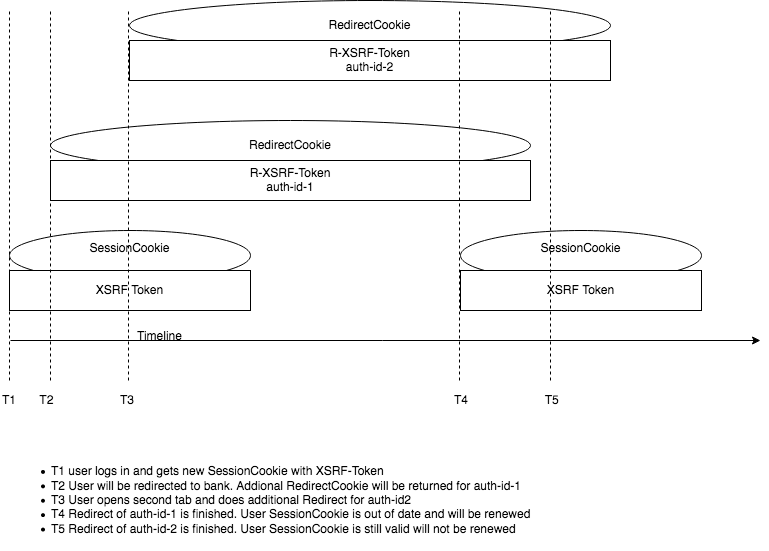
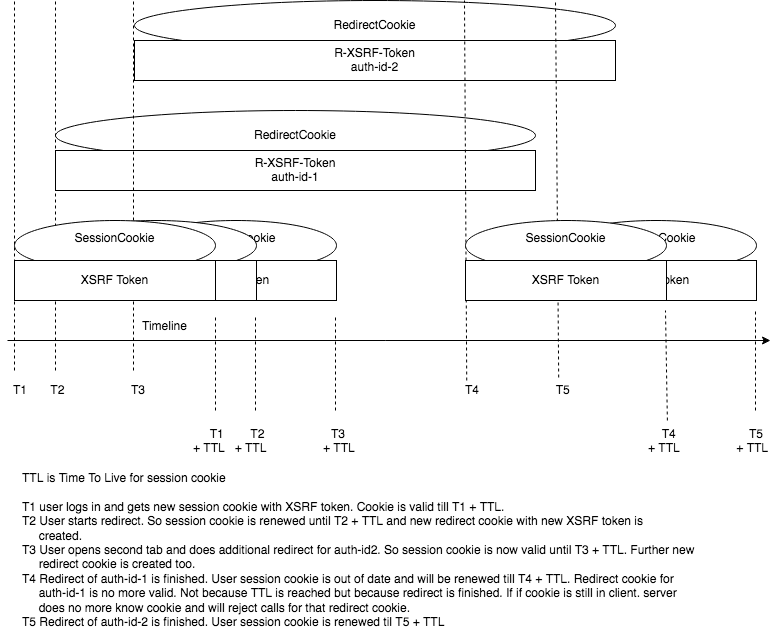
OBG 666 runs

diff --git a/fintech-examples/fintech-ui/src/app/interceptors/auth.interceptor.ts b/fintech-examples/fintech-ui/src/app/interceptors/auth.interceptor.ts
@@ -19,9 +19,6 @@ export class AuthInterceptor implements HttpInterceptor {
           const maxAge = response.headers.get(HeaderConfig.HEADER_FIELD_X_MAX_AGE);
           if (maxAge !== null) {
             this.storageService.extendSessionAge(parseInt(maxAge, 0));
-            console.log('max age', maxAge, ' set for call ', request.url);
-          } else {
-            console.log('NO max age for call ', request.url);
           }
         }
       }),
@@ -33,27 +30,22 @@ export class AuthInterceptor implements HttpInterceptor {
 
   private handleRequest(request: HttpRequest<any>, next: HttpHandler): Observable<HttpEvent<any>> {
     const xRequestID = uuid.v4();
-    let xsrfToken = null;
     let headers;
-    console.log('request is going to ', request.url);
-    if (request.headers.get(HeaderConfig.HEADER_FIELD_X_XSRF_TOKEN) !== '') {
-      xsrfToken = request.headers.get(HeaderConfig.HEADER_FIELD_X_XSRF_TOKEN);
-      console.log('xsrf token is set, so we do not change it', xsrfToken);
-    } else {
-      xsrfToken = this.storageService.getXsrfToken();
-      console.log('xsrf token taken from  storage ', xsrfToken);
-    }
     if (this.storageService.isLoggedIn()) {
+      let xsrfToken = null;
+      if (request.headers.get(HeaderConfig.HEADER_FIELD_X_XSRF_TOKEN) !== '') {
+        xsrfToken = request.headers.get(HeaderConfig.HEADER_FIELD_X_XSRF_TOKEN);
+      } else {
+        xsrfToken = this.storageService.getXsrfToken();
+      }
       headers = request.headers
         .set(HeaderConfig.HEADER_FIELD_X_REQUEST_ID, xRequestID)
         .set(HeaderConfig.HEADER_FIELD_CONTENT_TYPE, 'application/json')
         .set(HeaderConfig.HEADER_FIELD_X_XSRF_TOKEN, xsrfToken);
-      console.log('OUTGOING REQUEST ' + request.url + ' has xsrftoken ' + xsrfToken);
     } else {
       headers = request.headers
         .set(HeaderConfig.HEADER_FIELD_X_REQUEST_ID, xRequestID)
         .set(HeaderConfig.HEADER_FIELD_CONTENT_TYPE, 'application/json');
-      console.log('OUTGOING REQUEST ' + request.url + ' without xsrftoken');
     }
 
     request = request.clone({

diff --git a/fintech-examples/fintech-ui/src/app/errorsHandler/global-errors-handler.ts b/fintech-examples/fintech-ui/src/app/errorsHandler/global-errors-handler.ts
@@ -17,12 +17,12 @@ export class GlobalErrorHandler implements ErrorHandler {
 
     if (error instanceof HttpErrorResponse) {
       // Server Error
-      if (error.status === 401) {
-        authService.logout();
-        message = 'Please enter a valid username or password';
-      } else {
-        message = errorService.getServerMessage(error);
-      }
+      // if (error.status === 401) {
+      // authService.logout();
+      // does not make sense, as logout only works if user is logged in,
+      // getting 401 means session cookie not valid, so logout will fails anyway
+      // message = 'Please enter a valid username or password';
+      message = errorService.getServerMessage(error);
     } else {
       // Client Error
       message = errorService.getClientMessage(error);

diff --git a/fintech-examples/fintech-ui/src/app/services/storage.service.ts b/fintech-examples/fintech-ui/src/app/services/storage.service.ts
@@ -55,7 +55,6 @@ export class StorageService {
 
   private getMaxAgeDate(maxAge: number): Date {
     const date = new Date(new Date().getTime() + maxAge * 1000);
-    console.log('set max age ' + maxAge + ' till ' + toLocaleString(date));
     return date;
   }
 
@@ -125,7 +124,6 @@ enum Session {
   USERNAME = 'USERNAME',
   BANK_NAME = 'BANK_NAME',
   XSRF_TOKEN = 'XSRF_TOKEN',
-  COOKIE_NAME_SESSION = 'SESSION-COOKIE',
   MAX_VALID_UNTIL = 'MAX_VALID_UNTIL_TIMESTAMP',
   REDIRECT_MAP = 'REDIRECT_MAP'
 }

diff --git a/fintech-examples/fintech-impl/src/main/java/de/adorsys/opba/fintech/impl/service/SessionLogicService.java b/fintech-examples/fintech-impl/src/main/java/de/adorsys/opba/fintech/impl/service/SessionLogicService.java
@@ -75,15 +75,15 @@ public class SessionLogicService {
 
     @Transactional
     public HttpHeaders finishRedirect() {
-        SessionEntity sessionEntity = sessionRepository.findBySessionCookieValue(restRequestContext.getRedirectCookieValue()).get();
-        if (sessionEntity.getParentSession().equals(null)) {
+        SessionEntity redirectSessionEntity = sessionRepository.findBySessionCookieValue(restRequestContext.getRedirectCookieValue()).get();
+        if (redirectSessionEntity.getParentSession().equals(null)) {
             throw new RuntimeException("programming error, expected session for cookie value " + restRequestContext.getRedirectCookieValue() + " to be redirect session");
         }
-        SessionEntity parentSession = sessionRepository.findById(sessionEntity.getParentSession()).get();
-        sessionRepository.delete(sessionEntity);
+        SessionEntity sessionEntity = sessionRepository.findById(redirectSessionEntity.getParentSession()).get();
+        sessionRepository.delete(redirectSessionEntity);
         OffsetDateTime now = OffsetDateTime.now();
-        parentSession.setValidUntil(now.plusSeconds(cookieConfigProperties.getSessioncookie().getMaxAge()));
-        sessionRepository.save(parentSession);
+        sessionEntity.setValidUntil(now.plusSeconds(cookieConfigProperties.getSessioncookie().getMaxAge()));
+        sessionRepository.save(sessionEntity);
 
         log.info("renewed old session for user {}", sessionEntity.getUserEntity().getLoginUserName());
         HttpHeaders responseHeaders = new HttpHeaders();
@@ -94,7 +94,7 @@ public class SessionLogicService {
 
     @Transactional
     public boolean isSessionAuthorized() {
-        log.info("==> is authorized {} ", restRequestContext);
+        log.info("==> is authorized session {} ", restRequestContext);
         if (restRequestContext.getSessionCookieValue() == null || restRequestContext.getXsrfTokenHeaderField() == null || restRequestContext.getRequestId() == null) {
             log.error("unauthorized call {} due to missing {}", restRequestContext.getUri(),
                     restRequestContext.getSessionCookieValue() == null
@@ -122,7 +122,7 @@ public class SessionLogicService {
 
     @Transactional
     public boolean isRedirectAuthorized() {
-        log.info("==> is authorized {} ", restRequestContext);
+        log.info("==> is authorized redirect session {} ", restRequestContext);
         if (restRequestContext.getRedirectCookieValue() == null || restRequestContext.getXsrfTokenHeaderField() == null || restRequestContext.getRequestId() == null) {
             log.error("unauthorized redirect call {} due to missing {}", restRequestContext.getUri(),
                     restRequestContext.getRedirectCookieValue() == null
@@ -153,7 +153,7 @@ public class SessionLogicService {
     public ResponseEntity addSessionMaxAgeToHeader(ResponseEntity e) {
         List<String> headers = e.getHeaders().get(Consts.HEADER_SESSION_MAX_AGE);
         if (headers != null) {
-            log.info("respons already contains max age for session of uri {}", restRequestContext.getUri());
+            log.info("response already contains max age for session of uri {}", restRequestContext.getUri());
             return e;
         }
         String sessionCookieValue = restRequestContext.getSessionCookieValue();

diff --git a/fintech-examples/fintech-impl/src/main/java/de/adorsys/opba/fintech/impl/controller/FinTechAuthorizationImpl.java b/fintech-examples/fintech-impl/src/main/java/de/adorsys/opba/fintech/impl/controller/FinTechAuthorizationImpl.java
@@ -55,9 +55,9 @@ public class FinTechAuthorizationImpl implements FinTechAuthorizationApi {
         Iterator<LoginEntity> loginEntitiesIterator = loginRepository.findByUserEntityOrderByLoginTimeDesc(userEntity).iterator();
         if (loginEntitiesIterator.hasNext()) {
             userProfile.setLastLogin(loginEntitiesIterator.next().getLoginTime());
-            log.info("last login was {}", userProfile.getLastLogin());
+            log.info("last login for user {} was {}", userEntity.getLoginUserName(), userProfile.getLastLogin());
         } else {
-            log.info("this was very first login");
+            log.info("this was very first login for user {}", userEntity.getLoginUserName());
         }
         response.setUserProfile(userProfile);
         loginRepository.save(new LoginEntity(userEntity));
@@ -69,7 +69,6 @@ public class FinTechAuthorizationImpl implements FinTechAuthorizationApi {
     @Override
     public ResponseEntity<Void> fromConsentGET(String authId, String okOrNotokString, String finTechRedirectCode, UUID xRequestID, String xsrfToken) {
         OkOrNotOk okOrNotOk = OkOrNotOk.valueOf(okOrNotokString);
-        log.info("fromConsentGET path is \"/v1/{}/fromConsent/{}\"", authId, okOrNotOk);
         if (!sessionLogicService.isRedirectAuthorized()) {
             return new ResponseEntity<>(HttpStatus.UNAUTHORIZED);
         }
@@ -82,7 +81,7 @@ public class FinTechAuthorizationImpl implements FinTechAuthorizationApi {
                 throw new RuntimeException("consent for authid " + authId + " can not be found");
             }
 
-            log.info("consent with authId {} is now valid", authId);
+            log.debug("consent with authId {} is now valid", authId);
             consent.get().setConsentConfirmed(true);
             consentRepository.save(consent.get());
         }
@@ -92,7 +91,7 @@ public class FinTechAuthorizationImpl implements FinTechAuthorizationApi {
 
     @Override
     public ResponseEntity<Void> logoutPOST(UUID xRequestID, String xsrfToken) {
-        log.info("logoutPost is called");
+        log.debug("logoutPost is called for {}", restRequestContext);
 
         if (!sessionLogicService.isSessionAuthorized()) {
             log.warn("logoutPOST failed: user is not authorized!");

diff --git a/fintech-examples/fintech-impl/src/main/java/de/adorsys/opba/fintech/impl/service/HandleAcceptedService.java b/fintech-examples/fintech-impl/src/main/java/de/adorsys/opba/fintech/impl/service/HandleAcceptedService.java
@@ -36,11 +36,11 @@ public class HandleAcceptedService {
         }
         ConsentEntity consent = new ConsentEntity(consentType, sessionEntity.getUserEntity(), bankId, headers.getFirst(TPP_AUTH_ID),
                 UUID.fromString(headers.getFirst(SERVICE_SESSION_ID)));
-        log.info("created consent which is not confirmend yet for bank {}, user {}, auth {}", bankId, sessionEntity.getUserEntity().getLoginUserName(), consent.getAuthId());
+        log.debug("created consent which is not confirmend yet for bank {}, user {}, auth {}", bankId, sessionEntity.getUserEntity().getLoginUserName(), consent.getAuthId());
         consentRepository.save(consent);
 
         URI location = headers.getLocation();
-        log.info("call was accepted, but redirect has to be done for authID:{} location:{}", consent.getAuthId(), location);
+        log.debug("call was accepted, but redirect has to be done for authID:{} location:{}", consent.getAuthId(), location);
 
         HttpHeaders responseHeaders = sessionLogicService.startRedirect(sessionEntity.getUserEntity(), consent.getAuthId());
         responseHeaders.add(FIN_TECH_REDIRECT_CODE, fintechRedirectCode);

diff --git a/fintech-examples/fintech-impl/src/main/java/de/adorsys/opba/fintech/impl/service/RedirectHandlerService.java b/fintech-examples/fintech-impl/src/main/java/de/adorsys/opba/fintech/impl/service/RedirectHandlerService.java
@@ -29,8 +29,6 @@ public class RedirectHandlerService {
 
     @Transactional
     public RedirectUrlsEntity registerRedirectStateForSession(final String finTechRedirectCode, final String okPath, final String nokPath) {
-        log.debug("ONLY FOR DEBUG: finTechRedirectCode: {}", finTechRedirectCode);
-
         String localOkPath = okPath.replaceAll("^/", "");
         String localNokPath = nokPath.replaceAll("^/", "");
 
@@ -56,11 +54,7 @@ public class RedirectHandlerService {
             return prepareErrorRedirectResponse(uiConfig.getUnauthorizedUrl());
         }
         redirectUrlRepository.delete(redirectUrls.get());
-
-        if (!sessionLogicService.isRedirectAuthorized()) {
-            log.warn("Validation redirect request failed: user is not authorized!");
-            return prepareErrorRedirectResponse(uiConfig.getUnauthorizedUrl());
-        }
+        // if (!sessionLogicService.isRedirectAuthorized()) has been tested before
 
         if (okOrNotOk.equals(OkOrNotOk.OK)) {
             if (StringUtils.isBlank(authId)) {

diff --git a/fintech-examples/fintech-impl/src/main/java/de/adorsys/opba/fintech/impl/service/AccountService.java b/fintech-examples/fintech-impl/src/main/java/de/adorsys/opba/fintech/impl/service/AccountService.java
@@ -47,7 +47,7 @@ public class AccountService {
             case OK:
                 return new ResponseEntity<>(accounts.getBody(), HttpStatus.OK);
             case ACCEPTED:
-                log.info("create redirect entity for redirect code {}", fintechRedirectCode);
+                log.debug("create redirect entity for redirect code {}", fintechRedirectCode);
                 redirectHandlerService.registerRedirectStateForSession(fintechRedirectCode, fintechOkUrl, fintechNOKUrl);
                 return handleAcceptedService.handleAccepted(consentRepository, ConsentType.AIS, bankID, fintechRedirectCode, sessionEntity, accounts.getHeaders());
             case UNAUTHORIZED:

diff --git a/fintech-examples/fintech-impl/src/main/java/de/adorsys/opba/fintech/impl/database/entities/SessionEntity.java b/fintech-examples/fintech-impl/src/main/java/de/adorsys/opba/fintech/impl/database/entities/SessionEntity.java
@@ -63,7 +63,7 @@ public class SessionEntity {
         ObjectMapper mapper = new ObjectMapper();
         SessionCookieValue sessionCookieValue = mapper.readValue(decode, SessionCookieValue.class);
         if (sessionCookieValue.getHashedXsrfToken().equals(hashAndHexconvert(xsrfToken))) {
-            log.info("validation of token for session ok {}", sessionCookieValue);
+            log.debug("validation of token for session ok {}", sessionCookieValue);
             return;
         }
         throw new RuntimeException("(redirect or) session cookie xsrftoken hash:\"" + sessionCookieValue.getHashedXsrfToken()

diff --git a/fintech-examples/fintech-impl/src/test/java/de/adorsys/opba/fintech/impl/service/RedirectHandlerServiceTest.java b/fintech-examples/fintech-impl/src/test/java/de/adorsys/opba/fintech/impl/service/RedirectHandlerServiceTest.java
@@ -92,7 +92,6 @@ class RedirectHandlerServiceTest {
         // given
         when(sessionLogicService.finishRedirect()).thenReturn(new HttpHeaders());
         when(redirectUrlRepository.findByRedirectCode(REDIRECT_CODE_VALUE)).thenReturn(Optional.of(REDIRECT_URLS_ENTITY));
-        when(sessionLogicService.isRedirectAuthorized()).thenReturn(true);
 
         // when
         ResponseEntity responseEntity = redirectHandlerService.doRedirect(AUTH_ID_VALUE, REDIRECT_CODE_VALUE, OkOrNotOk.OK);

diff --git a/fintech-examples/fintech-impl/src/main/java/de/adorsys/opba/fintech/impl/service/AuthorizeService.java b/fintech-examples/fintech-impl/src/main/java/de/adorsys/opba/fintech/impl/service/AuthorizeService.java
@@ -58,7 +58,7 @@ public class AuthorizeService {
 
     private void generateUserIfUserDoesNotExistYet(LoginRequest loginRequest) {
         if (userRepository.existsById(loginRequest.getUsername())) {
-            log.info("User {} exists ", loginRequest.getUsername());
+            log.debug("User {} exists ", loginRequest.getUsername());
             return;
         }
         log.info("create on the fly user {}", loginRequest.getUsername());

diff --git a/fintech-examples/CookieManagement.md b/fintech-examples/CookieManagement.md
@@ -2,22 +2,13 @@
 
 ## HOW IT IS NOW
 
-Currently session management of fintechServer is designed and implemented in that way, that user always has just ONE valid session cookie. As long as user is working on fintechUI it has session cookie with short ttl. As soon, as user is redirected to consent ui, user gets new session cookie with long ttl. But this session cookie is only valid for this special redirect. Any other call fails.
+To make it possible to do two redirects in two tabs of same browser the session management of fintechServer is designed in that way, that user always has just ONE valid session cookie but can have more than one valid redirect cookie. As soon, as redirect is started, new redirect cookie is added with particlular path for redirect. So different redirects can be started in parallel. For starting redirect they all use same session cookie and will get individual redirect cookie with long ttl.
 
-After redirect is done, session cookie with long ttl will be replaced with new session cookie with short ttl again.
+As soon as any redirect ends, redirect cookie will be removed and old session cookie is in charge again.
 
-When user opens second tab, he is already logged in, as session cookie is avaiable. When user did no redirected yet, both tabs work fine. But as soon as user starts redirect in first tab, second tab can not do anything, except logging out. In this case first tab will loose session cookie too and redirect eventuall would fail.
+Further each call to fintech server extends duration of session to new maximum.
+If session cookie has ttl 5 Minutes and after login user is idle for one minute and than does call (for exampl search bank) session cookie is renewed to be alive for new 5 minutes.
 
-If same user logs in on two different browser, two redirects can be done perfectly fine in parallel.
-
-Independant of sessions, consents are stored in fintech directly under user. Consent can be for ais or pis. For ais only one consent can be valid at a time. But more than one consent can be retrieved in parallel. As soon as consent is confirmed, this consent will be used for any other ais call.
-
-Consent for payment will be allways individually. But this is not yet implemented.
-
-## TO MAKE REDIRECT WORK IN TWO TABS OF SAME BROWSER
-
-To make it possible to do two redirects in two tabs of same browser session management of fintechServer must be redesigned and reimplemented in that way, that user always has just ONE valid session cookie. But as soon, as redirect is started, redirect cookie will NOT replace previous session cookie. So different redirects can be started in parallel. For starting redirect they all use same session cookie and will get individual redirect cookie with long ttl.
-
-As soon as any redirect ends, redirect cookie will be replaced by new session cookie. But replacement only takes place, if old session cookie is no more valid. Once first redirect ends and replaces session cookie, next ending redirect is asking for a new session cookie too, but will be returned session cookie that has been created from first redirect end.
+In case of redirect it might happen, that during redirect session cookie ttl exceeds. This does not matter as long as redirect returns in ttl of redirect cookie. As soon as redirect is finished, old session cookie is valid again for 5 minutes.
 
 ![FinTech bank selection](../docs/img/demo/fintech-cookie-handling.png)
